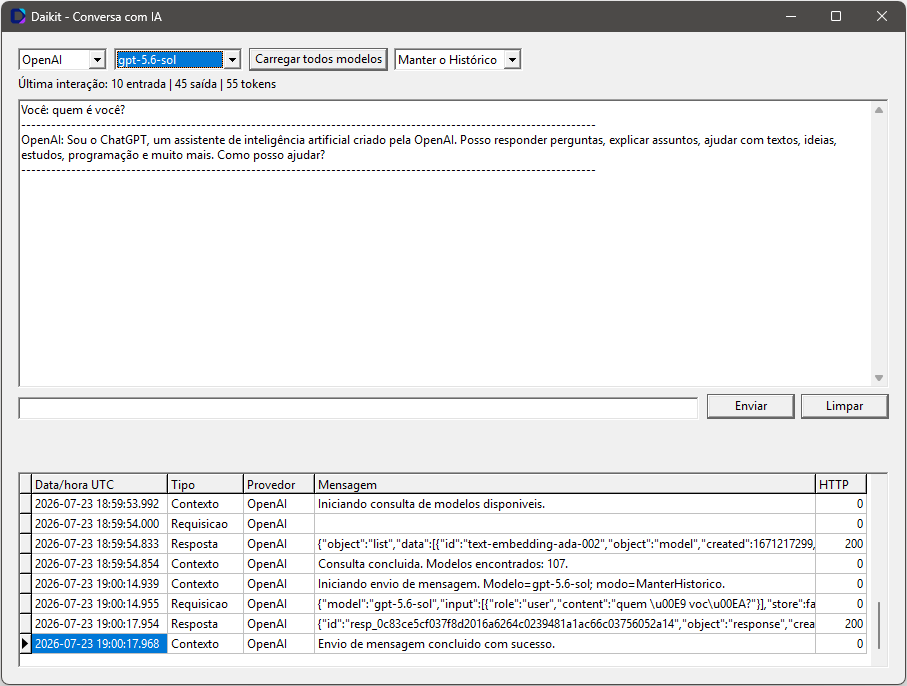
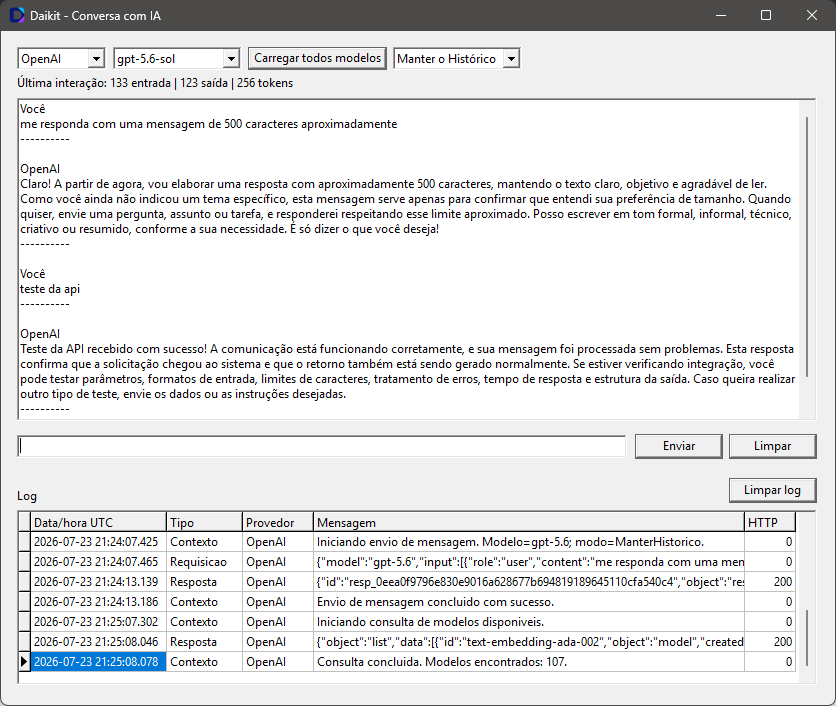
feat: Ajustes simples no exemplo vcl e no log
Ajuste no exemplo para melhorar a disposição dos componentes
Ajuste no log para não exibir mensagem em branco
Ajuste no readme com nova imagem do print do exemplo vcl

Changed region(s): [[0.0, 0.0, 1.0, 1.0], [0.9019, 0.0, 0.933, 0.0306]]

diff --git a/README.md b/README.md
@@ -11,7 +11,7 @@ O nome **Daikit** combina **D**, de Delphi, **AI**, de *Artificial Intelligence*
 Uma aplicação utiliza os componentes centrais do Daikit, escolhe um provedor e conversa com sua API sem precisar conhecer os contratos específicos de cada serviço.
 
 <p align="center">
-  <img src="documentacao/imagens/arquitetura-daikit.png" alt="Visão simplificada da arquitetura do Daikit" width="900">
+  <img src="documentacao/imagens/arquitetura-daikit.png" alt="Visão simplificada da arquitetura do Daikit" width="600">
 </p>
 
 ## Funcionalidades atuais
@@ -39,11 +39,9 @@ Uma aplicação utiliza os componentes centrais do Daikit, escolhe um provedor e
 
 Os cinco componentes aparecem na página **Daikit** da Tool Palette. O registro dos componentes não acessa a rede nem lê credenciais.
 
-<!-- CAPTURA_PALETA_INICIO -->
 <p align="center">
   <img src="documentacao/imagens/pallete-daikit.png" alt="Componentes do Daikit na Tool Palette do Delphi">
 </p>
-<!-- CAPTURA_PALETA_FIM -->
 
 ## Requisitos
 
@@ -75,8 +73,8 @@ O instalador configura automaticamente:
 - BPLs de design e runtime Win32 em `$(BDSCOMMONDIR)\Bpl`;
 - BPL de runtime Win64 em `$(BDSCOMMONDIR)\Bpl\Win64`;
 - DCPs e DCUs em `$(BDSCOMMONDIR)\Dcp\Daikit\Win32` e `Win64`;
-- os diretórios Daikit no `Search Path` de cada plataforma, sem duplicá-los;
-- a BPL de design em `Known Packages` para o usuário atual.
+- Os diretórios Daikit no `Search Path` de cada plataforma, sem duplicá-los;
+- A BPL de design em `Known Packages` para o usuário atual.
 
 Não é necessário adicionar os fontes ao projeto ou ao `Search Path`. Quando **Link with runtime packages** estiver habilitado, as BPLs de runtime utilizadas pela aplicação também deverão ser distribuídas conforme as regras usuais do Delphi.
 
@@ -90,11 +88,11 @@ Feche o Delphi e execute na raiz do repositório:
 
 O processo:
 
-1. compila `DaikitRuntimeD12` para Win32 e Win64;
-2. compila `DaikitDesignD12` para Win32;
-3. reúne BPLs, DCPs e DCUs por plataforma;
-4. incorpora esses arquivos ao instalador como um payload compactado;
-5. compila o instalador VCL em modo Release.
+1. Compila `DaikitRuntimeD12` para Win32 e Win64;
+2. Compila `DaikitDesignD12` para Win32;
+3. Reúne BPLs, DCPs e DCUs por plataforma;
+4. Incorpora esses arquivos ao instalador como um payload compactado;
+5. Compila o instalador VCL em modo Release.
 
 O resultado fica em:
 
@@ -116,9 +114,9 @@ O processo remove o registro do pacote, os arquivos Daikit instalados e somente 
 
 Em tempo de design, coloque no formulário ou data module:
 
-- um `TChatIA`;
-- um `TConversaIA`;
-- os provedores que deseja utilizar.
+- Um `TChatIA`;
+- Um `TConversaIA`;
+- Os provedores que deseja utilizar.
 
 Aponte `ChatIA.Conversa`, escolha o provedor e envie a mensagem:
 
@@ -211,17 +209,15 @@ O Daikit não filtra nem persiste eventos. A aplicação decide o que mostrar ou
 
 Abra [Daikit.ExemploVCL.dproj](examples/VCL.Conversa/Daikit.ExemploVCL.dproj). O exemplo demonstra:
 
-- troca entre os três provedores;
-- seleção do modelo;
-- histórico ou mensagem isolada;
-- uso das unidades retornadas pelo provedor;
-- consumo e exibição dos logs em um `TDBGrid`.
+- Troca entre os três provedores;
+- Seleção do modelo;
+- Histórico ou mensagem isolada;
+- Uso das unidades retornadas pelo provedor;
+- Consumo e exibição dos logs em um `TDBGrid`.
 
-<!-- CAPTURA_EXEMPLO_INICIO -->
 <p align="center">
-  <img src="documentacao/imagens/exemplo-daikit.png" alt="Aplicação VCL de exemplo do Daikit" width="900">
+  <img src="documentacao/imagens/exemplo-daikit.png" alt="Aplicação VCL de exemplo do Daikit">
 </p>
-<!-- CAPTURA_EXEMPLO_FIM -->
 
 ## Testes
 

diff --git a/documentacao/notas-de-versao/v0.1.0.md b/documentacao/notas-de-versao/v0.1.0.md
@@ -4,18 +4,18 @@ Primeira versão pública do Daikit, uma biblioteca didática de componentes Del
 
 ## Destaques
 
-- componentes não visuais para OpenAI, Anthropic e Google Gemini;
-- troca de provedor sem alterar o código da conversa;
-- envio assíncrono de mensagens sem bloquear a VCL;
-- consulta assíncrona dos modelos disponíveis em cada provedor;
-- histórico compartilhável ou envio de mensagens isoladas;
-- contratos JSON tipados com serialização automática por `REST.Json`;
-- transporte HTTPS nativo baseado em `THTTPClient`, sem Indy ou DLLs adicionais;
-- cancelamento cooperativo, timeouts e limite de tamanho das respostas;
-- eventos de log para contexto, requisição, resposta e erros;
-- credenciais em memória ou por variáveis de ambiente, sem persistência no DFM;
-- testes unitários com DUnitX sem consumo de APIs pagas;
-- suporte à compilação de aplicações Win32 e Win64.
+- Componentes não visuais para OpenAI, Anthropic e Google Gemini;
+- Troca de provedor sem alterar o código da conversa;
+- Envio assíncrono de mensagens sem bloquear a VCL;
+- Consulta assíncrona dos modelos disponíveis em cada provedor;
+- Histórico compartilhável ou envio de mensagens isoladas;
+- Contratos JSON tipados com serialização automática por `REST.Json`;
+- Transporte HTTPS nativo baseado em `THTTPClient`, sem Indy ou DLLs adicionais;
+- Cancelamento cooperativo, timeouts e limite de tamanho das respostas;
+- Eventos de log para contexto, requisição, resposta e erros;
+- Credenciais em memória ou por variáveis de ambiente, sem persistência no DFM;
+- Testes unitários com DUnitX sem consumo de APIs pagas;
+- Suporte à compilação de aplicações Win32 e Win64.
 
 ## Instalação
 
@@ -25,7 +25,7 @@ A release inclui um instalador autocontido para Delphi 12 Athens. Ele instala os
 
 - Delphi 12 Athens;
 - Windows;
-- aplicações Win32 ou Win64.
+- Aplicações Win32 ou Win64.
 
 ## Verificação do download
 
@@ -39,4 +39,6 @@ Get-FileHash .\Daikit.Instalador-0.1.0.exe -Algorithm SHA256
 
 ## Escopo desta versão
 
-Esta versão entrega o chat textual com OpenAI, Anthropic e Gemini. Streaming, ferramentas, MCP, RAG, embeddings, áudio e geração de imagens permanecem planejados para versões futuras.
+Esta versão entrega o chat textual com OpenAI, Anthropic e Gemini.
+
+Streaming, ferramentas, MCP, RAG, embeddings, áudio e geração de imagens permanecem planejados para versões futuras.